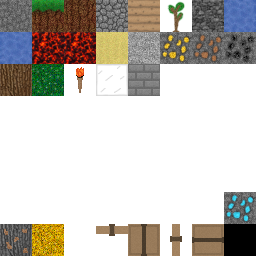
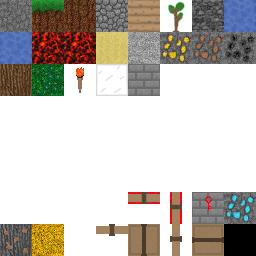
Добавлены запертые двери и ключи

Changed region(s): [[0.75, 0.75, 0.875, 0.875], [0.6562, 0.75, 0.7188, 0.875], [0.5, 0.75, 0.625, 0.8125]]

diff --git a/Scripts/worldGeneration.js b/Scripts/worldGeneration.js
@@ -63,6 +63,9 @@ const generate = (width, height, seed, changes) => {
     const TORCH_BLOCK = 19;
     const GLASS_BLOCK = 20;
     const STONE_BRICK_BLOCK = 21;
+    const LOCKED_TRAPDOOR_BLOCK = 53;
+    const LOCKED_DOOR_BLOCK = 54;
+    const BRICKS_WITH_KEY_BLOCK = 55;
     const DIAMOND_ORE_BLOCK = 56;
     const IRON_WOOD_BLOCK = 57;
     const GOLD_LEAF_BLOCK = 58;
@@ -1501,6 +1504,106 @@ const generate = (width, height, seed, changes) => {
         
         __observe.push(vLoc); //TEMP
     }
+
+    //Создание данжа
+    const dungeonGen = () => {
+        const vLoc = new Point(500, 800); //Bottom-left corner
+        const vWidth = 150;
+        const vHeight = 100;
+
+        let lCenterEnter, rCenterEnter; //Входы в центр
+
+        const clearZone = () => {
+            const clearBlock = (x, y) => {
+                setZone(x, y, CAVE_SPECIAL_ZONE);
+                setBlock(x, y, GameArea.FIRST_LAYOUT, STONE_BLOCK);
+                setBlock(x, y, GameArea.SECOND_LAYOUT, STONE_BLOCK);
+                setBlock(x, y, GameArea.BACK_LAYOUT, STONE_BLOCK);
+            }
+            const vW_2 = vWidth * vWidth;
+            const vH_2 = vHeight * vHeight;
+            //Верхняя и нижняя границы
+            for (let i = 0; i <= vWidth; i++) {
+                let s = i - vWidth / 2;
+                let bound = 5 * Math.min((1 - (4 * s * s / vW_2)), Math.abs(Math.sin(i / 3)));
+                // bound += random() * 3 - 1;
+                for (let j = 0; j <= 2 + bound; j++) {
+                    clearBlock(vLoc.x + i, vLoc.y - j);
+                    clearBlock(vLoc.x + i, vLoc.y + vHeight + j);
+                }
+            }
+            //Правая и левая границы
+            for (let i = 0; i <= vHeight; i++) {
+                let s = i - vHeight / 2;
+                let bound = 5 * Math.min((1 - (4 * s * s / vH_2)), Math.abs(Math.sin(i / 3)));
+                // bound += random() * 3 - 1;
+                for (let j = 0; j <= 2 + bound; j++) {
+                    clearBlock(vLoc.x - j, vLoc.y + i);
+                    clearBlock(vLoc.x + vWidth + j, vLoc.y + i);
+                }
+            }
+            // // Заливка
+            // for (let i = 0; i < vWidth; i++)
+            //     for (let j = 0; j < vHeight; j++)
+            //         clearBlock(vLoc.x + i, vLoc.y + j);
+        }
+
+        clearZone();
+        let tpt = new Point(10, 10);
+        let tw = 50;
+        let th = 20;
+        for (let i = 0; i < tw; i++) {
+            for (let j = 0; j < th; j++) {
+                setBlock(vLoc.x + tpt.x + i, vLoc.y + tpt.y + j, GameArea.BACK_LAYOUT, LEAVES_BLOCK);
+                // setBlock(vLoc.x + tpt.x + i, vLoc.y + tpt.y + j, GameArea.SECOND_LAYOUT, STONE_BRICK_BLOCK);
+            }
+            setBlock(vLoc.x + tpt.x + i, vLoc.y + tpt.y, GameArea.FIRST_LAYOUT, STONE_BRICK_BLOCK);
+        }
+        for (let i = 0; i < 4; i++) {
+            setBlock(vLoc.x + tpt.x + 5, vLoc.y + tpt.y + i + 1, GameArea.FIRST_LAYOUT, LOCKED_DOOR_BLOCK);
+        }
+        const blocksMap = {
+            'a': BRICKS_WITH_KEY_BLOCK,
+            'b': STONE_BRICK_BLOCK,
+            'c': COBBLESTONE_BLOCK,
+            'd': DOOR_BLOCK,
+            'g': GLASS_BLOCK,
+            'i': WATER_BLOCK,
+            'j': LAVA_BLOCK,
+            'h': LOCKED_TRAPDOOR_BLOCK,
+            'k': LOCKED_DOOR_BLOCK,
+            'l': TORCH_BLOCK,
+            'm': GRASS_BKOCK,
+            'n': DIRT_BLOCK,
+            'p': WOOD_PLANKS_BLOCK,
+            't': TRAPDOOR_BLOCK,
+            'y': SAND_BLOCK,    
+            'w': WOOD_BLOCK,
+        };
+        const fl = [
+            'b......bbbhhhhbbbb',
+            'b......b.........b',
+            'b......k.........b',
+            'a......k.........a',
+            'b......k.........b',
+            'b......k.........b',
+            'bbbbbbbbbbbbbbbbbb',
+        ].reverse();
+        const sl = [
+            'bbbbbbbbbbbbbbbbbb',
+            'bbbbbbbbbbbbbbbbbb',
+            'bbbbbbbbbbbbbbbbbb',
+            'bbbbbbbbbbbbbbbbbb',
+            'bbbbbbbbbbbbbbbbbb',
+            'bbbbbbbbbbbbbbbbbb',
+            'bbbbbbbbbbbbbbbbbb',
+        ].reverse();
+        drawByScheme(vLoc.add(tpt), blocksMap, fl, sl);
+        //["bbbbbbbbbbbbbbbbbbbbbbbbbbbbbbbbbbbbbbbbbbbbbbbbbb","bjjjccjjjjjjjjccjjjjjjjjjjjbjjjbjjjcjjjjjjjjccjjjb","b..............................b.............c...b","b..............................b.................b","b............l..l....c.........b...........l..l..b","b..........................l.......c.............b","b..............c.................................b","b...c.........cc.....b.....b....c.............bbbb","bbbbcc...............b.....b.............c....bbbb","bbbbc................b..b..b......................",".............l..l....b..b..b....c............c....",".....c...............b..b..b.......c........cc....","....cc...............b..b..b.........l..l...cc....","....cc........cc.....b..b..b................cc...b","b...cc.....................b.......b..bb.....c...b","b...c......................b....cccc..bb.........b","b............l..l..........b..........bb.........b","b..l..l.....b....b...l..l..b...l....l.bb...l..l..b","b...........b....b.........b..........bb.........b","bbbbbbbbbbbbb....bbbbbbbbbbbbbbbbbbbbbbbbbbbbbbbbb"]
+        //["bbbbbbbbbbbbbbbbbbbbbbbbbbbbbbbbbbbbbbbbbbbbbbbbbb","bbbcccbbbbbcbbccbbcccbccbbbbbbcbbbbbccbbcbbbccbcbb","bbbbccbbbbbbbbccbbbbbbccbbbbbbbbbbccbbbbbbbbccbbcb","bbbbccccbbbbcbccbbbbbbccbbbcbbbbcbbcbbcbbbbbccbbbb","bcbbccbbccbbbbccbbbbccccbbccbbbbccbcbbbbbbcbccbbbb","bbbbccbbbbccbbcccbccbbccbbcbbbbbbbbbbbbbbbbbcccbbb","bbcbccbbbbbbccccccbbbbccbbbbbbbbcbbcbbbcbbbbccbbbb","bbbbccbbbbbbbbccbbbbbbccbbb.bbbbcbcbbbbbbbbbccbbbb","bbbbccbbbbbbbbccbbbbbbccbbc.bbcbbcbcbbbbbcbcccbcbb","bbbbccbbcbbbbbccbcbbbbccbcbbbbbbcccbbbbbbbbcccbbbb","bbbbccbcbbcbbbccbbcbbbccbbbbbbbbcbbcbcbbbbbbccbbbc","bbbbccbbbbcbbbccbbbbbbccbbbbbcbbcbbcbbbcbbbbccbbbb","bcbbccbcbbcbbbccbbbbbbccbbbbccbbccbcbbbbbbbbccbbbb","bbcbccbbbbbbbbccbbbbbbccbbbbbbbbcccbbbbbbbbbccbbbb","bcbbccbbbbbbccccccbbcbccbbbbbbbbbbcbbbbbbbbbccbcbb","bbbbccbbbbccbbccbbccbbccbbcbcbbbccccbbbbbbcbccbbbb","bbcbccbbccbbbbccbbbbccccbbcbbbcbbcbcbbbbbbbbccbbbb","bbbbccccbbbbbbccbbbbbbccbcbbbbbbbbcbbbbbcbbbccbbbb","bbbbccbbbbbbbbccbbbbbbccbbbbbbbbccbcbbbbbbbcccbbbb","bbbbbbbbbbbbbbccbbbbbbbbbbbbbbbbbbbbbbbbb.bbb.bbbb"]        ;
+
+
+    }
     //#endregion
 
     //Процесс генерации
@@ -1511,7 +1614,8 @@ const generate = (width, height, seed, changes) => {
     lavaLakes(20, height / 2, 1 / 4000);
     treeGen(16, 19, Math.floor(width * 2 / 3));
 
-    villageGen();
+    // villageGen();
+    dungeonGen();
     underSpecial1Gen(200, 200, 5);
     oreGen();
     
@@ -1590,6 +1694,8 @@ const generate = (width, height, seed, changes) => {
     createShadows(9);
 
     console.timeEnd('World generation');
+    // __gameArea = new GameArea(worldMap, elevationMap, shadowMap, width, height);
+    // return __gameArea;
     return new GameArea(worldMap, elevationMap, shadowMap, width, height);
     //#endregion
 }

diff --git a/Scripts/items.js b/Scripts/items.js
@@ -494,6 +494,93 @@ const items = {
         }
     },
 
+    '53': //Locked trapdoor
+    {
+        id: '53',
+        name: 'Locked trapdoor',
+        type: 'bedrock',
+        isBlock: true,
+        durability: 1000,
+        weight: WEIGHT_OF_BLOCKS,
+        isSolid: false,
+        isCollissed: true,
+        isClickable: true,
+        texture: () => {
+            return getTextureCoordinates(12, 0)
+        },
+        interactFunction: (x, y, layout) => {
+            if (player.hand.item === 280) {
+                player.deleteFromInvByIndex(player.fastInv[player.hand.index], 1);
+                gameArea.gameAreaMapSet(x, y, layout, 60);
+                for (let i = x + 1; gameArea.map[i][y][layout] === 53; i++) {
+                    gameArea.gameAreaMapSet(i, y, layout, 60);
+                }
+                for (let i = x - 1; gameArea.map[i][y][layout] === 53; i--) {
+                    gameArea.gameAreaMapSet(i, y, layout, 60);
+                }
+            }
+        },
+        canPlace: (x, y, layout) => {
+            return (gameArea.map[x][y - 1][layout] === 61
+                        || gameArea.map[x][y - 1][layout] === 60
+                        || gameArea.canAttach(x, y - 1, layout));
+        },
+    },
+
+    '54': //Locked door
+    {
+        id: '54',
+        name: 'Locked door',
+        type: 'bedrock',
+        isBlock: true,
+        durability: 1000,
+        weight: WEIGHT_OF_BLOCKS,
+        isSolid: false,
+        isCollissed: true,
+        isClickable: true,
+        texture: () => {
+            return getTextureCoordinates(11, 0)
+        },
+        interactFunction: (x, y, layout) => {
+            if (player.hand.item === 280) {
+                player.deleteFromInvByIndex(player.fastInv[player.hand.index], 1);
+                gameArea.gameAreaMapSet(x, y, layout, 62);
+                for (let i = y + 1; gameArea.map[x][i][layout] === 54; i++) {
+                    gameArea.gameAreaMapSet(x, i, layout, 62);
+                }
+                for (let i = y - 1; gameArea.map[x][i][layout] === 54; i--) {
+                    gameArea.gameAreaMapSet(x, i, layout, 62);
+                }
+            }
+        },
+        canPlace: (x, y, layout) => {
+            return (gameArea.map[x][y - 1][layout] === 61
+                        || gameArea.map[x][y - 1][layout] === 60
+                        || gameArea.canAttach(x, y - 1, layout));
+        },
+    },
+
+    '55':
+    {
+        id: '57',
+        name: 'Bricks with key',
+        type: 'stone',
+        isBlock: true,
+        isCollissed: true,
+        durability: 9,
+        isSolid: true,
+        weight: WEIGHT_OF_BLOCKS,
+        dropId: 280,
+        isClickable: true,
+        texture: () => {
+            return getTextureCoordinates(13, 0)
+        },
+        interactFunction: (x, y, layout) => {
+            gameArea.gameAreaMapSet(x, y, layout, 21);
+            player.addToInv(createItem(280, 1));
+        }
+    },
+
     '56':
     {
         id: '56',
@@ -900,6 +987,16 @@ const items = {
         texture: () => {
             return getTextureCoordinates(12, 1)
         }
+    },
+
+    '280':
+    {
+        id: '280',
+        name: 'Red key',
+        texture: () => {
+            return getTextureCoordinates(2, 2)
+        },
+        weight: 1
     },
 
     '370':

diff --git a/Scripts/cheats.js b/Scripts/cheats.js
@@ -2,7 +2,7 @@ var __cheat_fullbright = true;
 var __cheat_spectator = true;
 var __cheat_seed = undefined;
 var __cheat_freePlacement = true;
-var __gameArea = undefined;
+// var __gameArea = undefined;
 var __cheat_noLayout = true;
 
 const cheat = {
@@ -80,9 +80,9 @@ const writeScheme = (x, y, w, h) => {
         let curF = [];
         let curS = [];
             for (let i = 0; i < w; i++) {
-            let t = __gameArea.get(x + i, y + j, GameArea.FIRST_LAYOUT);
+            let t = gameArea.get(x + i, y + j, GameArea.FIRST_LAYOUT);
             curF.push(t === undefined ? '.' : bMap[t]);
-            t = __gameArea.get(x + i, y + j, GameArea.SECOND_LAYOUT);
+            t = gameArea.get(x + i, y + j, GameArea.SECOND_LAYOUT);
             curS.push(t === undefined ? '.' : bMap[t]);
         }
         totalF.push(curF.join(''));
